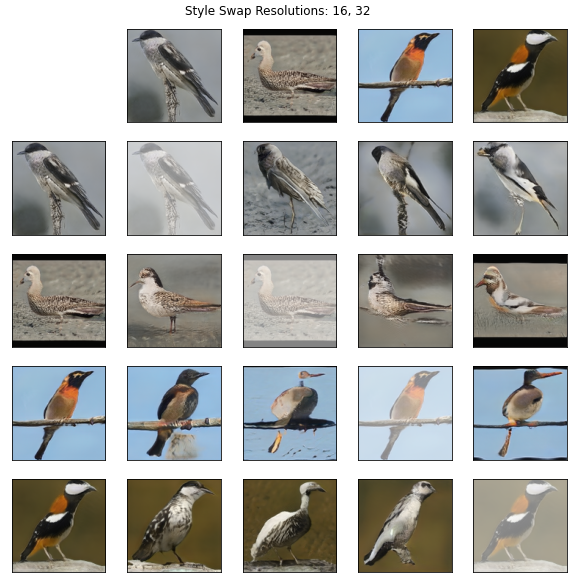
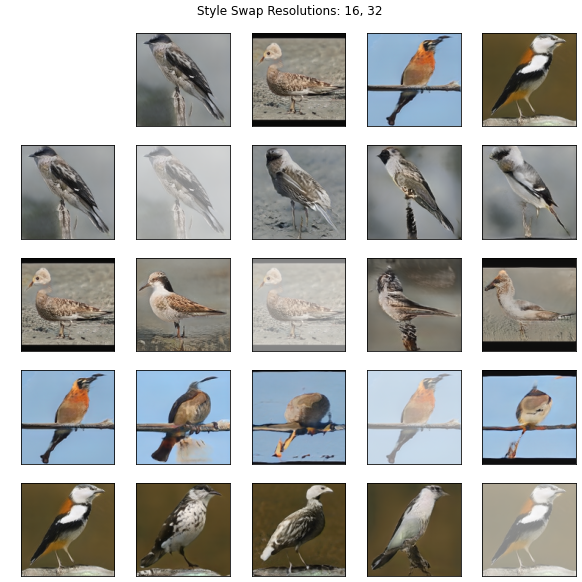
udpate figures

diff --git a/src/models.py b/src/models.py
@@ -145,7 +145,7 @@ class StyleGanGenerator(nn.Module):
         self.truncation = Truncation(torch.zeros(latent_size_in))
         self.style_mix_prob = .9
 
-    def forward(self, latents, depth, alpha, per_channel_noise=None):
+    def forward(self, latents, depth, alpha, per_channel_noise=None, eval_truncation=True):
         mapped_latents = self.mapping_layers(latents)
         if self.training:
             self.truncation.update(mapped_latents[:,0].detach().mean(dim=0))
@@ -162,6 +162,10 @@ class StyleGanGenerator(nn.Module):
             mapped_latents = torch.where(layer_idx < cutoff, mapped_latents, second_mapped_latents)
 
             mapped_latents = self.truncation(mapped_latents)
+        elif eval_truncation:
+            mapped_latents = self.truncation(mapped_latents)
+
+
         output = self.synthesis_layers(mapped_latents, depth, alpha, per_channel_noise).contiguous()
         return output
 
